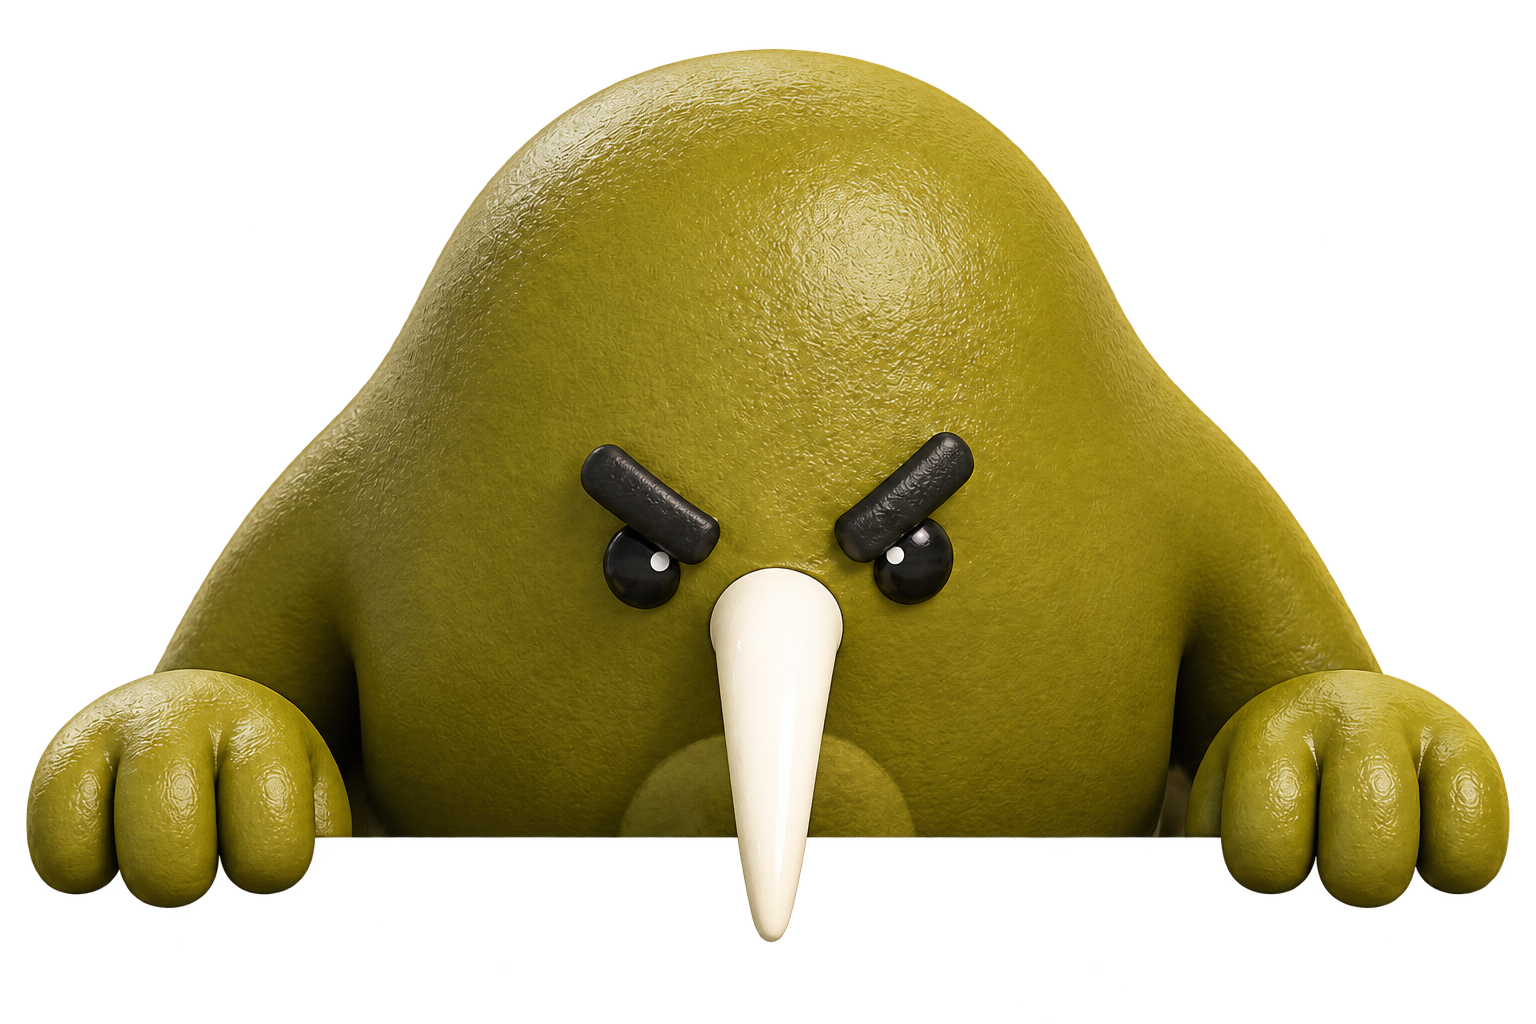
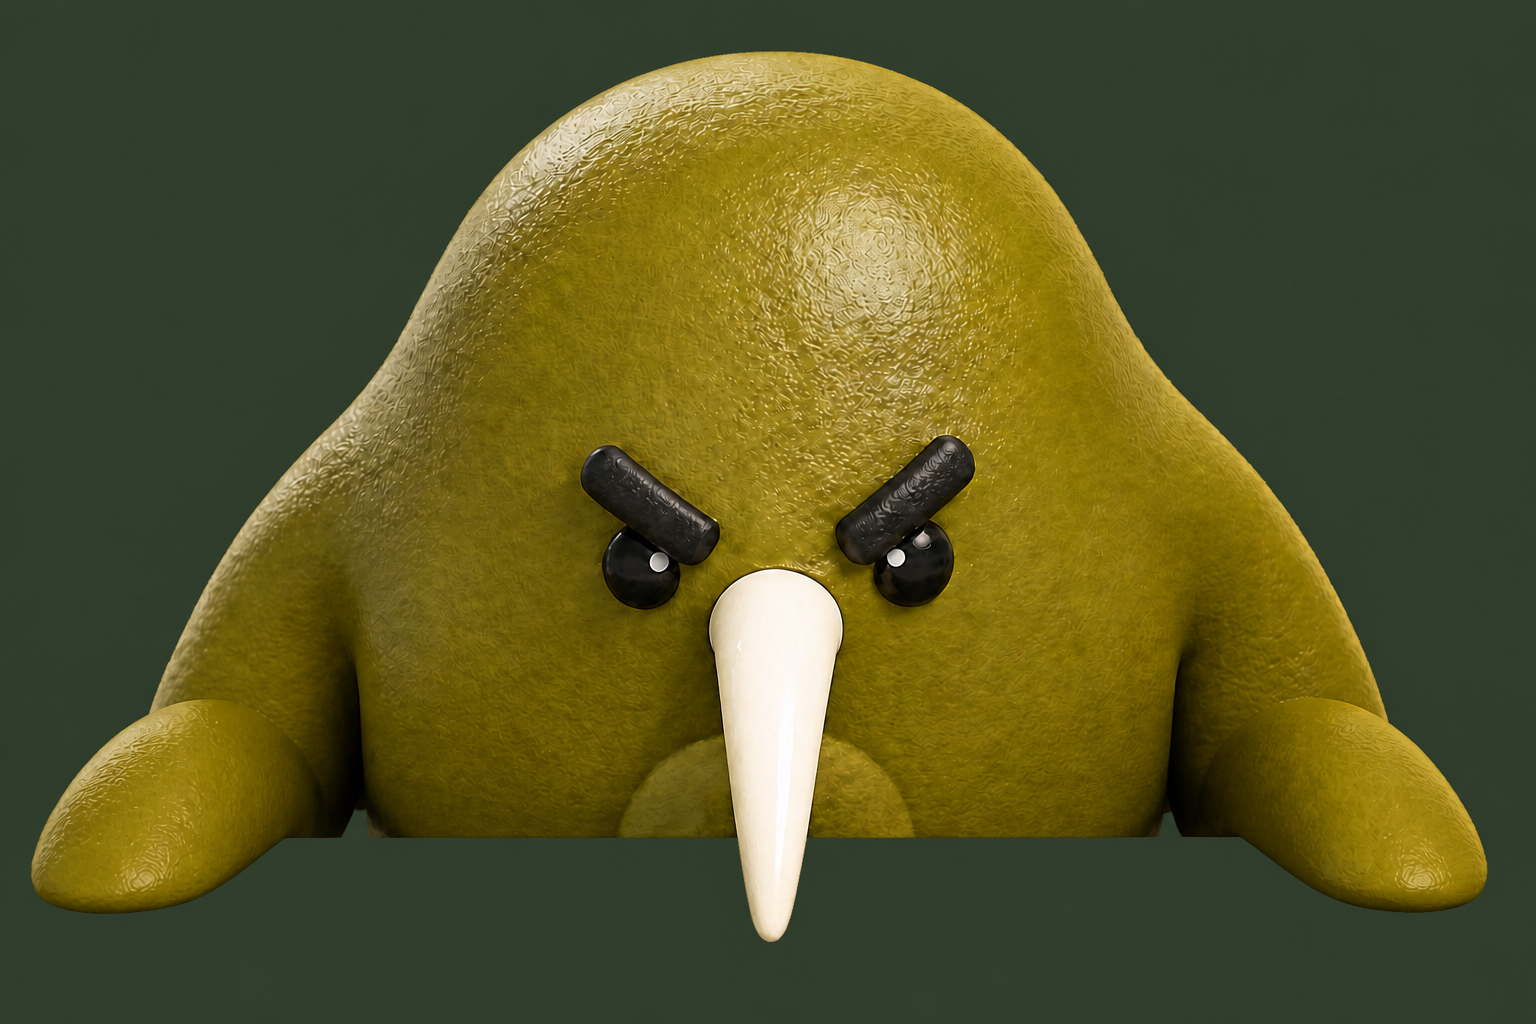
Refine hero mascot flippers

diff --git a/src/pages/Home.tsx b/src/pages/Home.tsx
@@ -84,12 +84,12 @@ function HeroSection() {
           {/* Right - Quote Card */}
           <div className="hero-card flex justify-center lg:justify-end">
             <div className="relative w-full max-w-sm pt-36">
-              {/* Mascot body sits behind the quote card. */}
-              <div aria-hidden="true" className="pointer-events-none absolute left-1/2 top-0 z-0 h-44 w-[310px] -translate-x-1/2 overflow-hidden rounded-t-[45%]">
+              {/* One 3D render overlaps the card edge so body, beak and flippers stay cohesive. */}
+              <div aria-hidden="true" className="pointer-events-none absolute left-1/2 top-0 z-20 h-[190px] w-[280px] -translate-x-1/2 overflow-hidden">
                 <img
                   src="/images/kiwikoru-mascot-peek.png"
                   alt=""
-                  className="h-auto w-full select-none object-top drop-shadow-[0_14px_18px_rgba(0,0,0,.4)]"
+                  className="h-auto w-full select-none object-top drop-shadow-[0_14px_18px_rgba(0,0,0,.4)] [clip-path:polygon(36%_0,64%_0,78%_8%,88%_25%,93%_55%,100%_76%,100%_91%,91%_100%,76%_100%,66%_91%,57%_88%,53%_100%,47%_100%,43%_88%,34%_91%,24%_100%,9%_100%,0_91%,0_76%,7%_55%,12%_25%,22%_8%)]"
                 />
               </div>
               <Link
@@ -109,17 +109,6 @@ function HeroSection() {
                   <ArrowRight className="w-5 h-5" />
                 </div>
               </Link>
-
-              {/* Hands and beak sit in front so the mascot visibly grips the card. */}
-              <div aria-hidden="true" className="pointer-events-none absolute inset-x-0 top-[124px] z-20">
-                <div className="absolute left-5 top-0 flex h-12 w-[70px] items-end justify-center gap-1 rounded-[48%_48%_42%_42%] bg-[linear-gradient(145deg,#a2a141,#596326)] shadow-[inset_5px_5px_8px_rgba(255,244,131,.18),4px_7px_9px_rgba(0,0,0,.38)]">
-                  <span className="mb-1 h-7 w-3 rounded-full bg-black/10" /><span className="mb-0.5 h-8 w-3 rounded-full bg-black/10" /><span className="mb-1 h-7 w-3 rounded-full bg-black/10" />
-                </div>
-                <div className="absolute right-5 top-0 flex h-12 w-[70px] items-end justify-center gap-1 rounded-[48%_48%_42%_42%] bg-[linear-gradient(215deg,#a2a141,#596326)] shadow-[inset_-5px_5px_8px_rgba(255,244,131,.18),-4px_7px_9px_rgba(0,0,0,.38)]">
-                  <span className="mb-1 h-7 w-3 rounded-full bg-black/10" /><span className="mb-0.5 h-8 w-3 rounded-full bg-black/10" /><span className="mb-1 h-7 w-3 rounded-full bg-black/10" />
-                </div>
-                <div className="absolute left-1/2 top-0 h-[76px] w-7 -translate-x-1/2 bg-[linear-gradient(100deg,#d8d3bd_0%,#fffdf2_45%,#d8d4c3_100%)] shadow-[3px_7px_8px_rgba(0,0,0,.3)] [clip-path:polygon(7%_0,93%_0,55%_100%,45%_100%)]" />
-              </div>
             </div>
           </div>
         </div>
